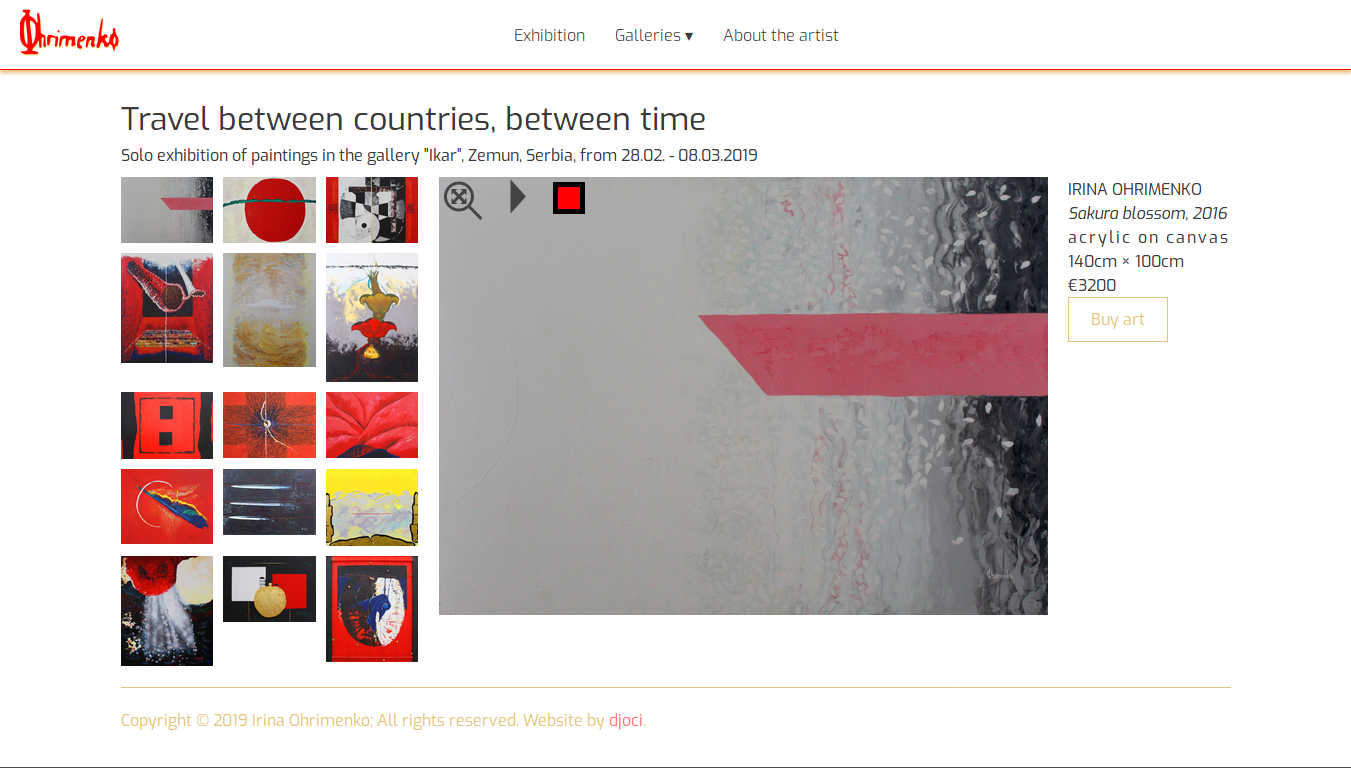
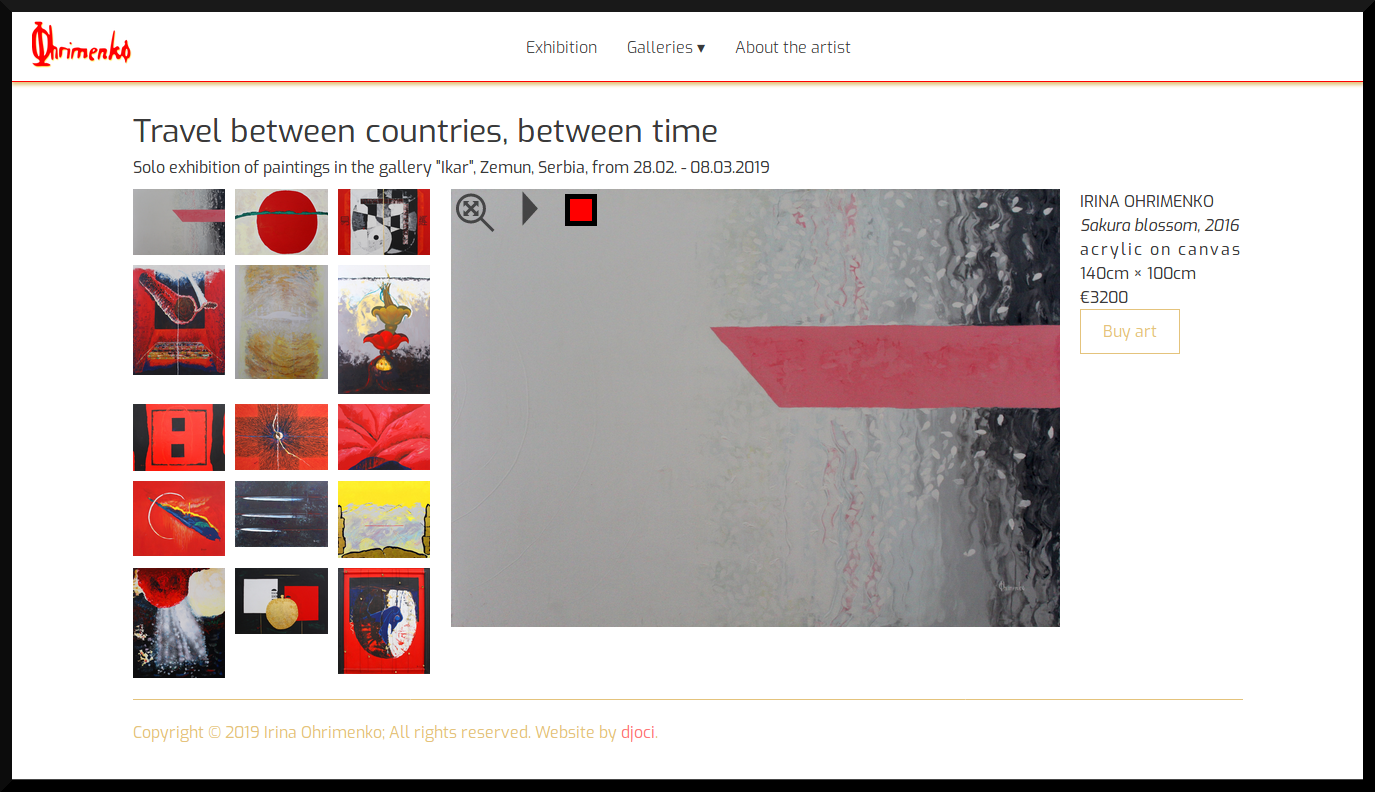
Ekrani za Readme

Changed region(s): [[0.0, 0.0, 1.0, 1.0]]

diff --git a/README.md b/README.md
@@ -1,8 +1,46 @@
-# Izlozba slika
+# Izložba slika
 
 ## Osnovne informacije
 
-Sajt je prikaz umetničkih dela slikarke Irina Ohrimenko. Sadrži osnovne informacije o slikarki, njenih izložbi i internet prodavnicu. Dizajn je jednostavan sa ciljem da pokaže lepotu umetničkih dela.
+Sajt je prikaz umetničkih dela slikarke Irine Ohrimenko uz njenu kratku biografiju.  Dela su organizovana u galerije i izložbu, koje imaju i mogućnost kupovine odabrane slike (uz checkout formu i zahvalnicu). Sajt je responzivan sa dizajnom koji je podređen fotografijama umetničkih dela.
+
+## Organizacija web stranica
+```
+├── index.html
+|
+├── about.html
+|
+├── acts.html
+├── thematic.html
+├── landscapes.html    
+|
+├── exhibition.html
+|
+└── ├── checkout.html
+    └── thankyou.html
+```
+### "Index" stranica
+Prikazuje fotografije i osnovne podatke svih umetničkih slika iz JSON baze podataka.
+
+<em>Izgled dele stranice na desktop racunaru</em>
+![Index Screen1](screenshots/Index.png)
+<em>Izgled dela stranice na iPhone uređaju</em>
+![Index Screen2](screenshots/Index-IPhone.png)
+
+### "About the artist" stranica
+Biografija umetnice i njena fotografije ispred slike "Narandžasti put"
+
+<em>Screenshot za iPad</em>
+
+![Index Screen2](screenshots/About.png)
+
+### "Exhibition",  "Acts", "Thematic" i "Landscapes" stranice
+
+Stranice sadrže deo slika iz baze koje su grupisane u celine, osim toga konstrukcija ovih stranice je identična. Stranica ima slajder, kojim se trenutna slika može menjati manuelno ali se može uključiti i automatski mod. Svaka slika se može uveličati na ceo ekran, gde je takođe moguće preći na drugu sliku pomoću slajdera. Postoji i mogućnost promene boje pozadine slike - omogućava posetiocu da vidi kako se slika uklapa na pozadine različitih boja.
+
+![Index Screen2](screenshots/GalerijaIkar1.png)
+
+![Index Screen2](screenshots/GalerijaIkar2.png)
 
 ## Tehnologije korišćene pri razvoju
 
